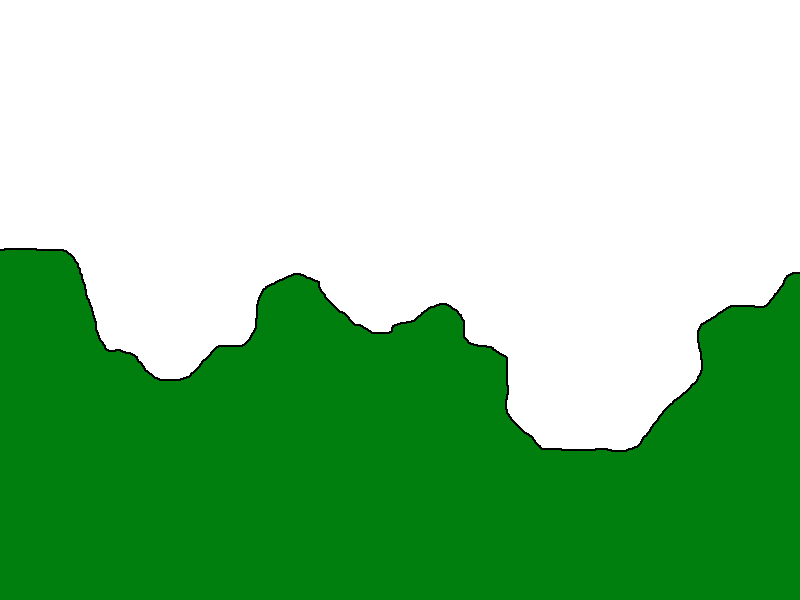
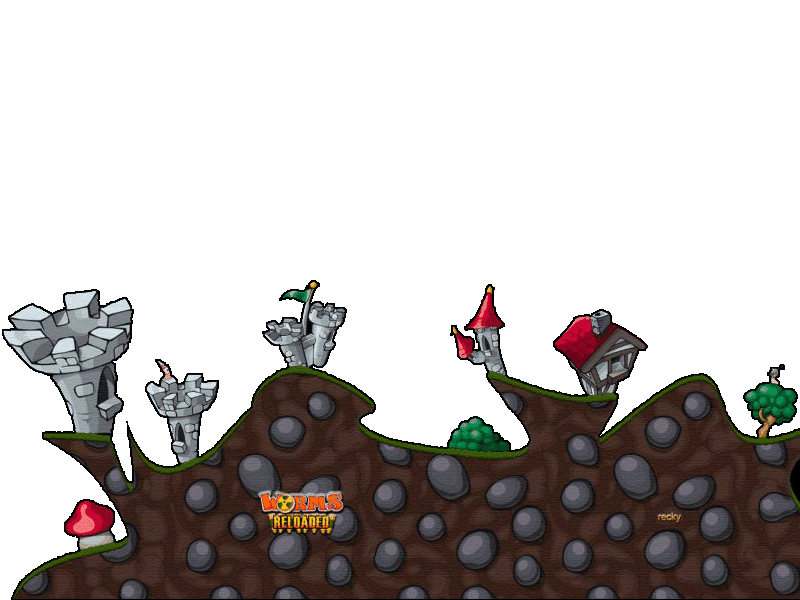
texture ground

diff --git a/Fly/Game1.cs b/Fly/Game1.cs
@@ -40,6 +40,9 @@ namespace Fly
         {
             this.IsMouseVisible = true;
             base.Initialize();
+            graphics.PreferredBackBufferHeight = 600;
+            graphics.PreferredBackBufferWidth = 800;
+            graphics.ApplyChanges();
         }
 
         protected override void LoadContent()
